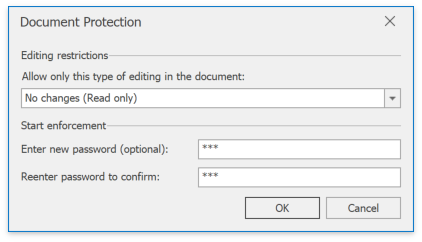
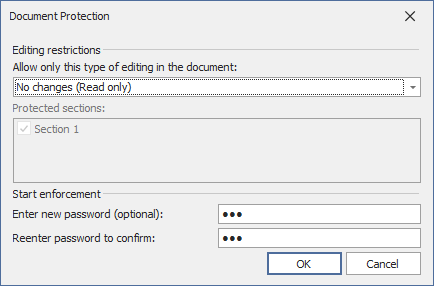
add info abt protected sections

Changed region(s): [[0.0, 0.0, 1.0, 1.0]]

diff --git a/interface-elements-for-desktop/articles/rich-text-editor/document-protection/protect-and-unprotect-a-document.md b/interface-elements-for-desktop/articles/rich-text-editor/document-protection/protect-and-unprotect-a-document.md
@@ -12,7 +12,7 @@ Follow the steps below to protect a document with a password.
 1. On the **Review** [tab](../text-editor-ui/ribbon-interface.md), in the **Protect** group, click the **Protect Document** button.
 
     ![RTEProtectDocumentRibbonMenu](../../../images/img121364.png)
-2. Specify a protection type in the invoked **Document Protection** dialog. Select **No changes (Read-only)** to restrict all actions, **Comments** - to allow leaving comments only, **Tracked Changes** - to prevent other users from creating untracked changes.
+2. Specify a protection type in the invoked **Document Protection** dialog. Select **No changes (Read-only)** to restrict all actions, **Comments** - to allow users leave comments only, **Tracked Changes** - to prevent other users from creating untracked changes, **Filling in Forms** -to allows users to fill in forms and form fields.
 
     ![DocumentProtectionTypes](../../../images/img121365_1.png)
 
@@ -38,6 +38,9 @@ Before [adding protection](#protect-a-document) to a document, you can specify c
     ![RTEProtectionHighlighted](../../../images/img121368.png)
 5. Continue to select the document regions and give users permission to edit them.
 6. After specifying all required parts, [enable protection](#protect-a-document).
+
+
+You can also restrict document modification with **Document Protection** and **Unprotect Document** dialogs. For more information, refer to the following topic: [Sections](../document-layout-and-page-setup/divide-a-document-into-sections.m).
 
 ## Remove Protection from a Document
 

diff --git a/interface-elements-for-desktop/articles/rich-text-editor/document-layout-and-page-setup/divide-a-document-into-sections.md b/interface-elements-for-desktop/articles/rich-text-editor/document-layout-and-page-setup/divide-a-document-into-sections.md
@@ -37,3 +37,16 @@ You can change the type of the section break that has been inserted to start a s
 3. Change the **Section start** property on the **Layout** tab as required.
 	
 	![RTEChangeSectionStart](../../../images/img121271.png)
+
+
+## Section Protection
+
+You can protect/unprotect certain sections in your document. 
+
+In the UI, do the following to protect/unprotect sections:
+
+1. Click **Protect Document** on the **Review** ribbon tab to open the [Document Protection](../document-protection/protect-and-unprotect-a-document.md) dialog.
+2. In the invoked dialog, set the document protection type to *Filling in Forms* (allows users to fill in forms and form fields).
+3. Select sections to be protected. When the section checkbox is selected, you can modify text only in form fields in this section.
+
+    ![Rich Text Editor - Document Protection](~/images/document-protection-dialog-sections.png)
